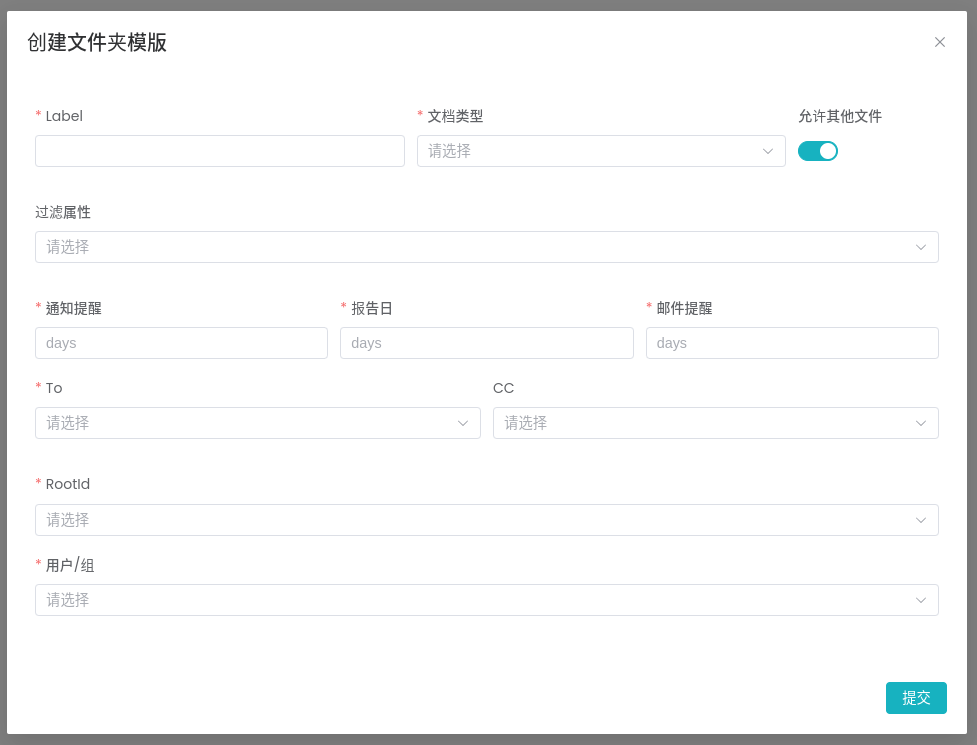
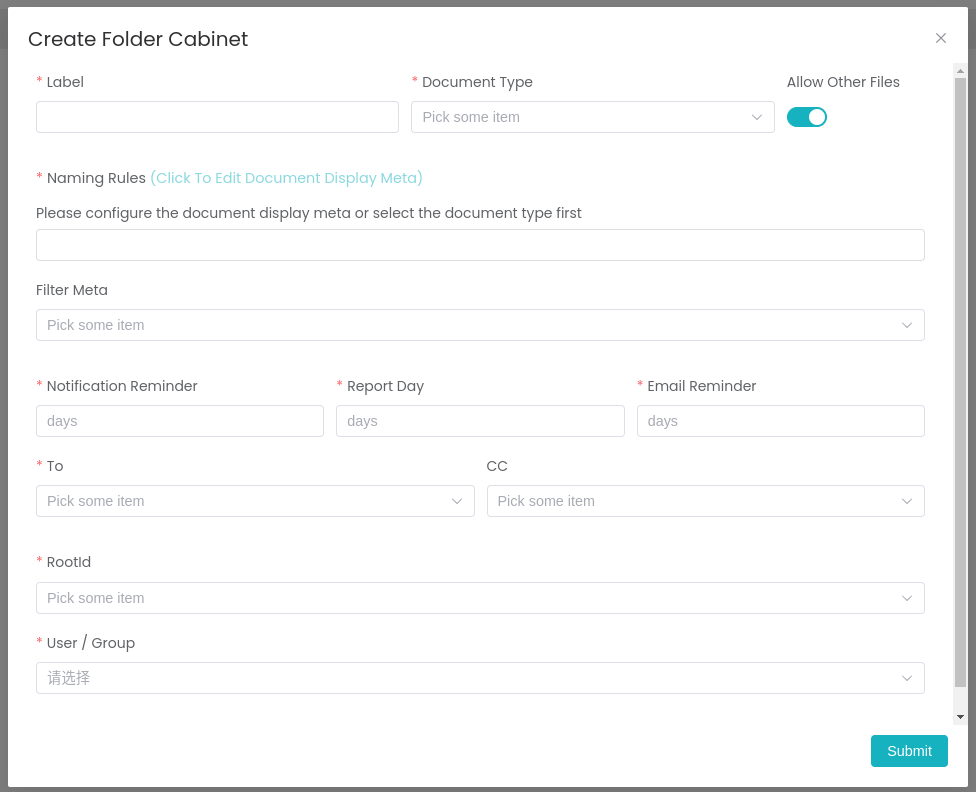
folder-cabinet

diff --git a/src/v1.1.6/manage-folder-cabinet.md b/src/v1.1.6/manage-folder-cabinet.md
@@ -16,8 +16,12 @@ category: 文档管理
 
 ## 新建模板文件树
 ![模板文件树新建](/images/v1.1.6/folderCabinet-new.png)
+   1. 点击新建按钮。
+   1. 点击`下一步`按钮，将根据`模板文件树`配置的`命名规则`生成文件夹名称。如果命名规则未设置，则默认以 `${模板名称}-${创建时间}`为文件夹名称。
+   2. 如果检测到文件夹名称重复，点击继续操作，将自动生成新文件夹名称。
+
 ![模板文件树下一步](/images/v1.1.6/folderCabinet-next.png)
-   点击新建按钮，按步骤上传文件树并配置文件属性。
+   上传文件并配置文件属性，提交后将生成文件树到文件树。
 
 ## 导出模板文件树列表
 ![模板文件树列表导出结果](/images/v1.1.6/folderCabinet-export.png)

diff --git a/src/zh/v1.1.6/manage-folder-cabinet.md b/src/zh/v1.1.6/manage-folder-cabinet.md
@@ -16,8 +16,12 @@ category: 文档管理
 
 ## 新建模板文件树
 ![模板文件树新建](/images/v1.1.6/folderCabinet-new.png)
+   1. 点击新建按钮。
+   1. 点击`下一步`按钮，将根据`模板文件树`配置的`命名规则`生成文件夹名称。如果命名规则未设置，则默认以 `${模板名称}-${创建时间}`为文件夹名称。
+   2. 如果检测到文件夹名称重复，点击继续操作，将自动生成新文件夹名称。
+
 ![模板文件树下一步](/images/v1.1.6/folderCabinet-next.png)
-   点击新建按钮，按步骤上传文件树并配置文件属性。
+   上传文件并配置文件属性，提交后将生成文件树到文件树。
 
 ## 导出模板文件树列表
 ![模板文件树列表导出结果](/images/v1.1.6/folderCabinet-export.png)

diff --git a/src/v1.1.6/admin-folder-cabinet.md b/src/v1.1.6/admin-folder-cabinet.md
@@ -12,6 +12,7 @@
    1. 过滤属性为`后设资料`配置的可显示`meta`数据
    2. Root Id为模板所在目录
    3. 用户/组配置可见用户
+   4. 命名规则：新建文件夹时将按模板`命名规则`自动生成`文件夹名称`,选择文件夹类型后，根据文件夹类型配置的必填`meta`数据生成选项，可点击`命名规则`右边的超链接进入`meta`配置页面。
 ## 编辑文件树模板
 ![文件树模板详情](/images/v1.1.6/folderCabinet-detail.png)
 

diff --git a/src/zh/v1.1.6/admin-folder-cabinet.md b/src/zh/v1.1.6/admin-folder-cabinet.md
@@ -12,6 +12,7 @@
    1. 过滤属性为`后设资料`配置的可显示`meta`数据
    2. Root Id为模板所在目录
    3. 用户/组配置可见用户
+   4. 命名规则：新建文件夹时将按模板`命名规则`自动生成`文件夹名称`,选择文件夹类型后，根据文件夹类型配置的必填`meta`数据生成选项，可点击`命名规则`右边的超链接进入`meta`配置页面。
 ## 编辑文件树模板
 ![文件树模板详情](/images/v1.1.6/folderCabinet-detail.png)
 
